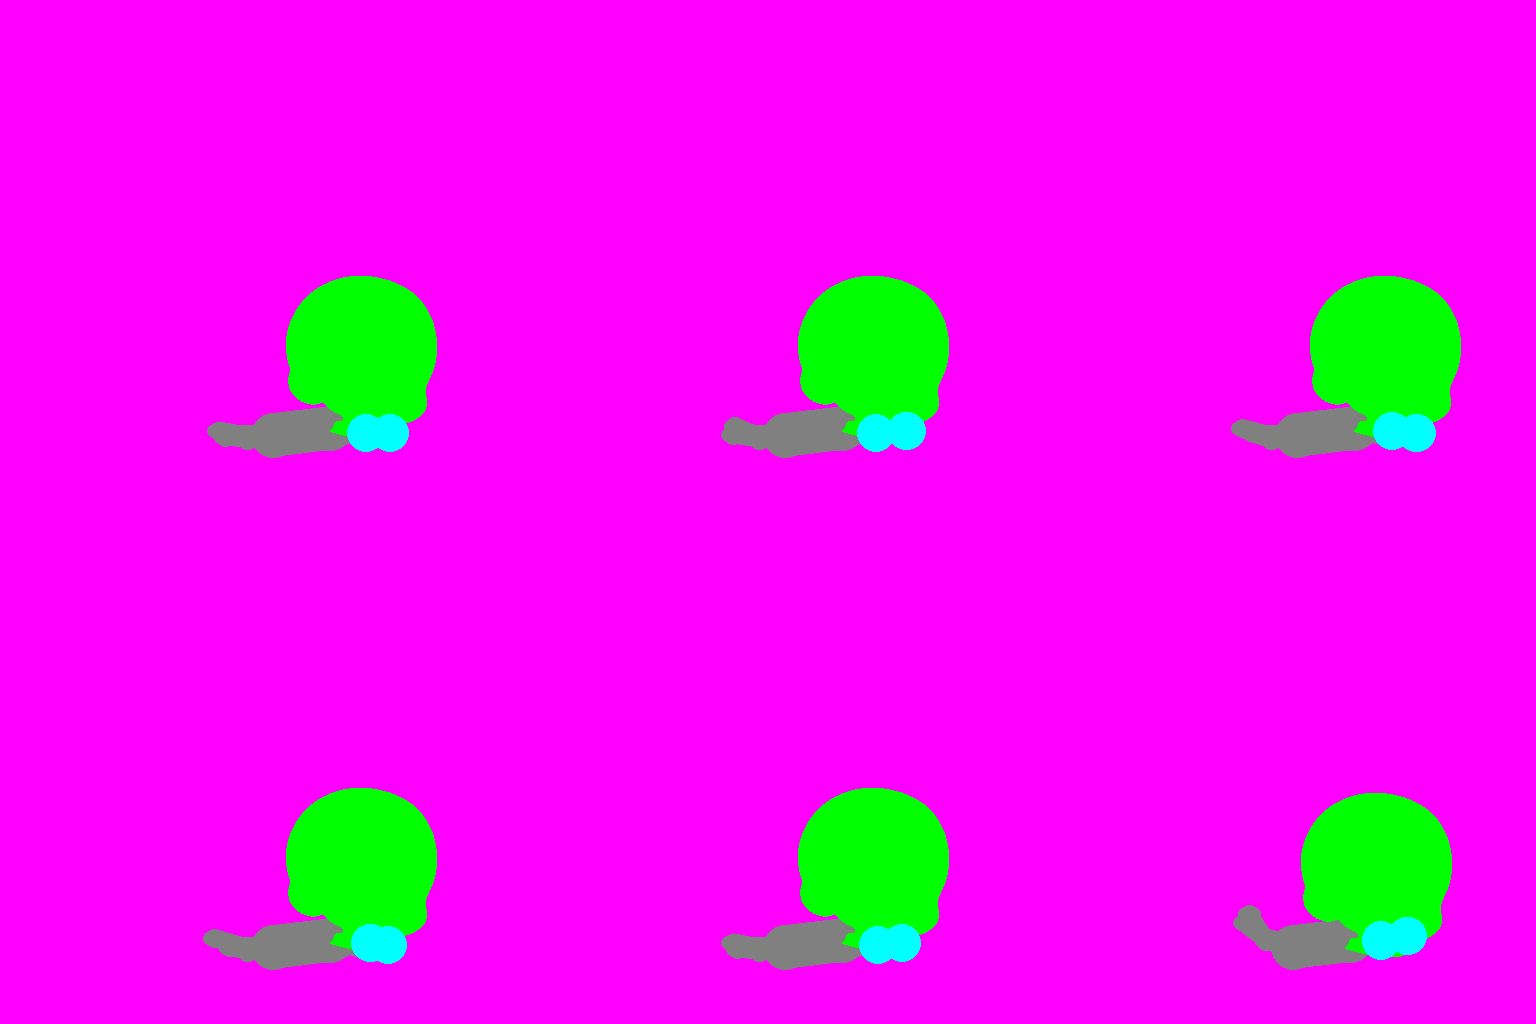
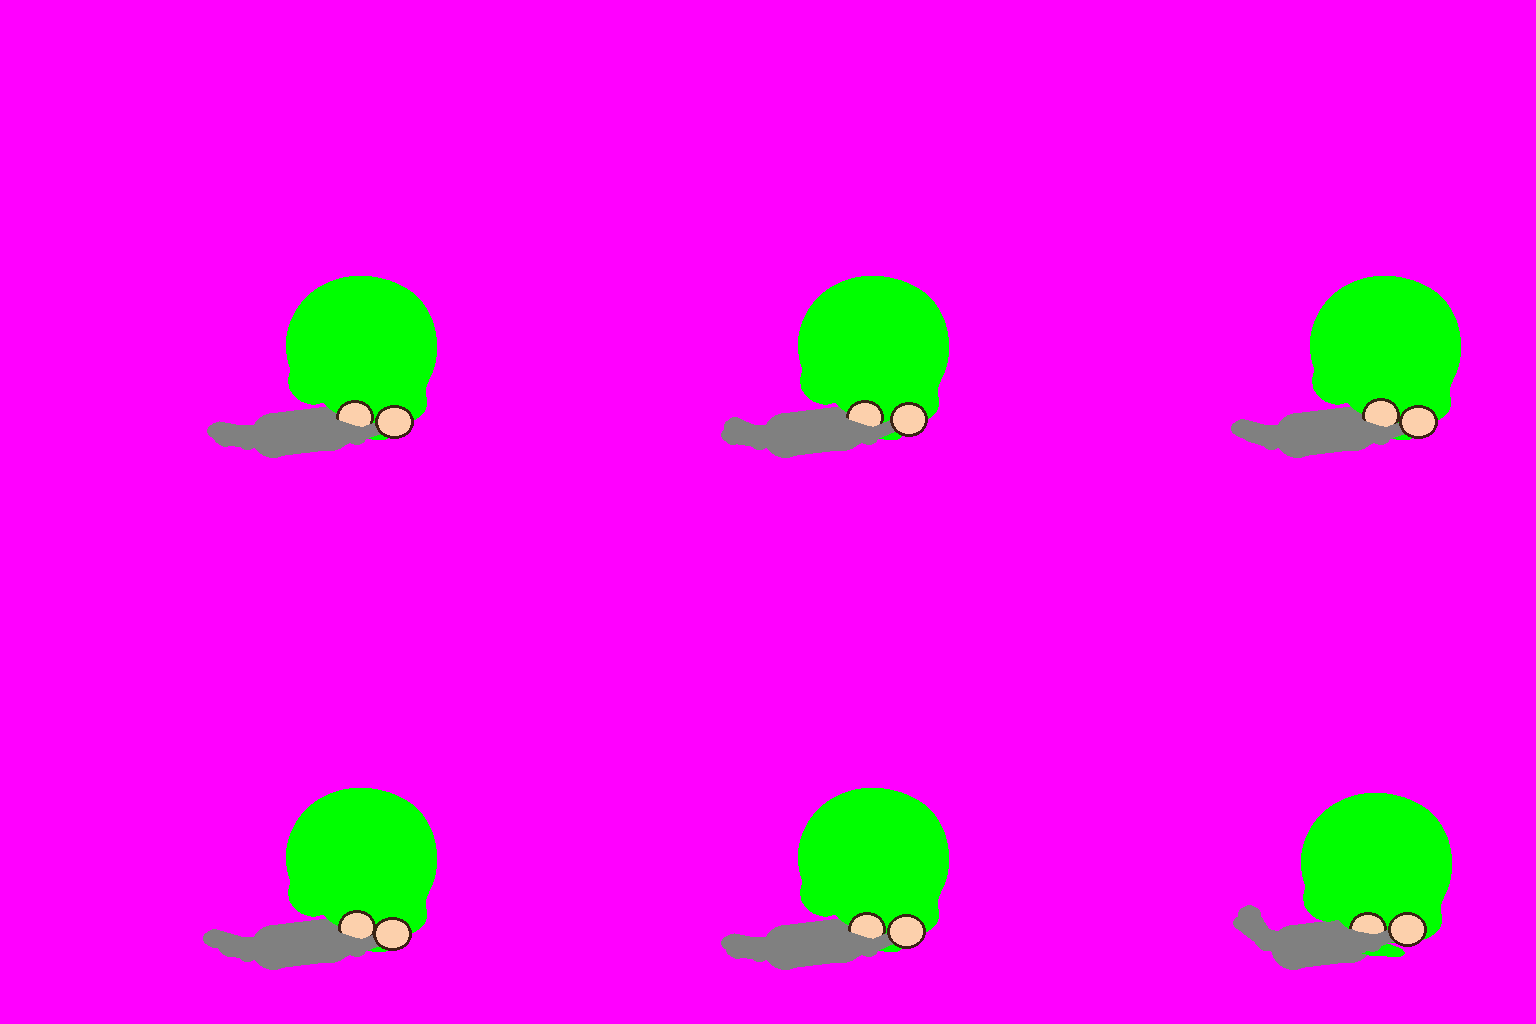
Templates and prompts for painted hands and the lobby walk sheet
Claude-Session: https://claude.ai/code/session_01SNM3Fnyw111WXwJ74f5KjW

diff --git a/scripts/make-walk-template.py b/scripts/make-walk-template.py
@@ -1,0 +1,71 @@
+"""Lobby walk template for Codex (docs/walk-frames.md): one 1536x1024 sheet, 3x2 cells of 512 px on
+magenta, one step per cell (contact, down, passing, then the same with the other leg). Each cell has the
+universal head as a flat green silhouette where the standing avatar wears it, and a gray mannequin in the
+walking pose with skin-colored hand guides. Codex paints the outfit over the mannequin (hands included,
+like DDTank's sheets); scripts/build-walk-atlas.py finds the green heads again, so the body is registered
+to the head without per-outfit numbers.
+Usage: python3 scripts/make-walk-template.py"""
+import json, math
+from PIL import Image, ImageDraw
+import numpy as np
+
+contract = json.load(open('src/game/rig/walkFrames.json'))
+T = contract['template']; cell = T['cell']; k = T['scale']
+GRAY, SKIN, LINE = (128, 128, 128), (252, 208, 172), (58, 36, 20)
+# The head exactly as the standing avatar draws it: rig.head cut from character-base.png, scaled by
+# HEAD_SCALE about its pivot (650, 610) in the 1254 px avatar space.
+base = Image.open('public/assets/character-base.png').convert('RGBA')
+cut = Image.new('L', base.size, 0)
+ImageDraw.Draw(cut).polygon([(265, 0), (991, 0), (991, 600), (727, 608), (701, 631), (622, 629), (542, 608), (265, 608)], fill=255)
+alpha = np.where(np.minimum(np.asarray(base)[:, :, 3], np.asarray(cut)) > 40, 255, 0).astype('uint8')
+head = Image.fromarray(alpha)
+hs = contract['headScale']
+pivot = contract['headPivot']
+size = (round(base.size[0] * hs * k), round(base.size[1] * hs * k))
+head = head.resize(size, Image.LANCZOS).point(lambda v: 255 if v > 127 else 0)
+
+
+def place(i, p):
+    """1254 px avatar space -> template pixels in cell i (ground at the contract's ground line)."""
+    ox, oy = (i % T['columns']) * cell + cell / 2, (i // T['columns']) * cell + T['ground']
+    return (ox + (p[0] - contract['center'][0]) * k, oy + (p[1] - contract['groundY']) * k)
+
+
+out = Image.new('RGB', (cell * T['columns'], cell * T['rows']), (255, 0, 255))
+draw = ImageDraw.Draw(out)
+for i, frame in enumerate(contract['frames']):
+    P = lambda p: place(i, p)
+    lift = frame['bob']
+
+    def limb(a, b, width, fill=GRAY):
+        draw.line([P(a), P(b)], fill=fill, width=round(width * k))
+        for q in (a, b):
+            x, y = P(q); r = width * k / 2
+            draw.ellipse([x - r, y - r, x + r, y + r], fill=fill)
+
+    def leg(thigh, shin, x):
+        hip = (x, contract['hip'][1] + lift)
+        knee = (hip[0] + math.sin(math.radians(thigh)) * contract['thigh'], hip[1] + math.cos(math.radians(thigh)) * contract['thigh'])
+        ankle = (knee[0] + math.sin(math.radians(shin)) * contract['shin'], knee[1] + math.cos(math.radians(shin)) * contract['shin'])
+        limb(hip, knee, 92); limb(knee, ankle, 76)
+        toe = (ankle[0] + 70 * math.cos(math.radians(frame.get('toe', 0))), ankle[1] + 40)
+        limb((ankle[0] - 20, ankle[1] + 40), toe, 58)
+
+    def arm(swing, x):
+        shoulder = (x, contract['shoulderY'] + lift)
+        elbow = (shoulder[0] + math.sin(math.radians(swing)) * 125, shoulder[1] + math.cos(math.radians(swing)) * 125)
+        hand = (elbow[0] + math.sin(math.radians(swing * 1.4 + 12)) * 115, elbow[1] + math.cos(math.radians(swing * 1.4 + 12)) * 115)
+        limb(shoulder, elbow, 58); limb(elbow, hand, 48)
+        x, y = P(hand); r = 34 * k
+        draw.ellipse([x - r, y - r * .92, x + r, y + r * .92], fill=SKIN, outline=LINE, width=3)
+
+    far, near = frame['far'], frame['near']
+    arm(frame['farArm'], contract['hip'][0] + 18)
+    leg(*far, contract['hip'][0] + 12)
+    limb((contract['hip'][0], contract['neckY'] + lift), (contract['hip'][0], contract['hip'][1] - 30 + lift), 230)
+    leg(*near, contract['hip'][0] - 12)
+    hx, hy = P((pivot[0] - pivot[0] * hs, pivot[1] - pivot[1] * hs + lift))
+    out.paste((0, 255, 0), (round(hx), round(hy)), head)
+    arm(frame['nearArm'], contract['hip'][0] - 18)
+out.save('docs/templates/walk.png')
+print('docs/templates/walk.png', len(contract['frames']), 'frames')

diff --git a/scripts/make-combat-templates.py b/scripts/make-combat-templates.py
@@ -1,7 +1,8 @@
 """Combat body templates for Codex (docs/combat-frames.md): one 1536x1024 sheet per group of frames,
 3x2 cells of 512 px on magenta. In every cell the universal head is a flat green silhouette, the
 small chibi body to paint is a flat gray mannequin (DDTank proportions: the body is smaller than the
-head) and the two hands are cyan discs: the game draws the same skin-colored fists for every outfit.
+head) with gray arms reaching two skin-colored fist guides. Like DDTank, the hands are painted in the
+outfit's own sheet, joined to the sleeves; the game tints every skin-colored pixel to the player's skin.
 Codex paints the outfit over the gray mannequin; scripts/build-combat-atlas.py finds the green heads
 again, so the body is registered to the head without any per-outfit numbers.
 Usage: python3 scripts/make-combat-templates.py"""
@@ -12,7 +13,7 @@ import numpy as np
 contract = json.load(open('src/game/rig/combatFrames.json'))
 T = contract['template']; cell = T['cell']; ppu = T['pixelsPerUnit']
 H = contract['headSilhouette']
-GRAY, CYAN = (128, 128, 128), (0, 255, 255)
+GRAY, SKIN, LINE = (128, 128, 128), (252, 208, 172), (58, 36, 20)
 # The head cut used by the game (appearance.ts avatarRig: rig.head) over character-base.png.
 base = Image.open('public/assets/character-base.png').convert('RGBA')
 cut = Image.new('L', base.size, 0)
@@ -39,23 +40,37 @@ def mannequin(draw, body, at):
         limb(leg[0], leg[1], 9); limb(leg[1], leg[2], 8)
         x, y = P(leg[2]); draw.ellipse([x - 5 * ppu, y - 3.5 * ppu, x + 5 * ppu, y + 3.5 * ppu], fill=GRAY)
     limb(body["neck"], body["hip"], 20)
-    for a, b in body['sleeves']:
-        limb(a, b, 8)
+
+
+def arm(draw, sleeve, fist, at):
+    """Gray sleeve from the shoulder through the elbow down to the wrist, then the skin fist guide."""
+    P = lambda p: (at[0] + p[0] * ppu, at[1] + p[1] * ppu)
+    (shoulder, elbow), (fx, fy) = sleeve, fist[:2]
+    for a, b, width in ((shoulder, elbow, 8), (elbow, (fx, fy), 6)):
+        draw.line([P(a), P(b)], fill=GRAY, width=round(width * ppu))
+        for q in (a, b):
+            x, y = P(q); r = width * ppu / 2
+            draw.ellipse([x - r, y - r, x + r, y + r], fill=GRAY)
+    x, y = P((fx, fy)); rx, ry = contract['fist']['size'] * .5 * ppu, contract['fist']['size'] * .45 * ppu
+    draw.ellipse([x - rx, y - ry, x + rx, y + ry], fill=SKIN, outline=LINE, width=3)
 
 
 for sheet in contract['sheets']:
     out = Image.new('RGB', (cell * T['columns'], cell * T['rows']), (255, 0, 255))
     draw = ImageDraw.Draw(out)
     for i, name in enumerate(sheet['frames']):
-        frame = contract['frames'][name]
+        frame, body = contract['frames'][name], contract['mannequin'][name]
         at = ((i % T['columns']) * cell + sheet['origin'][0], (i // T['columns']) * cell + sheet['origin'][1])
-        mannequin(draw, contract['mannequin'][name], at)
+        prone = name in ('rest', 'hurt') or name.startswith('crawl')
+        # Kneeling, the far arm is behind the body; lying, both fists rest in front of the chin.
+        if not prone:
+            arm(draw, body['sleeves'][0], frame['fists'][0], at)
+        mannequin(draw, body, at)
         hx, hy = frame['head']
         cx, cy = at[0] + hx * ppu, at[1] + hy * ppu
         out.paste((0, 255, 0), (round(cx - size[0] / 2), round(cy - size[1] / 2)), mask)
-        r = contract['fist']['size'] / 2 * ppu
-        for x, y, _ in frame['fists']:
-            x, y = at[0] + x * ppu, at[1] + y * ppu
-            draw.ellipse([x - r, y - r, x + r, y + r], fill=CYAN)
+        if prone:
+            arm(draw, body['sleeves'][0], frame['fists'][0], at)
+        arm(draw, body['sleeves'][1], frame['fists'][1], at)
     out.save(f"docs/templates/combat-{sheet['name']}.png")
     print(f"docs/templates/combat-{sheet['name']}.png", sheet['frames'])
